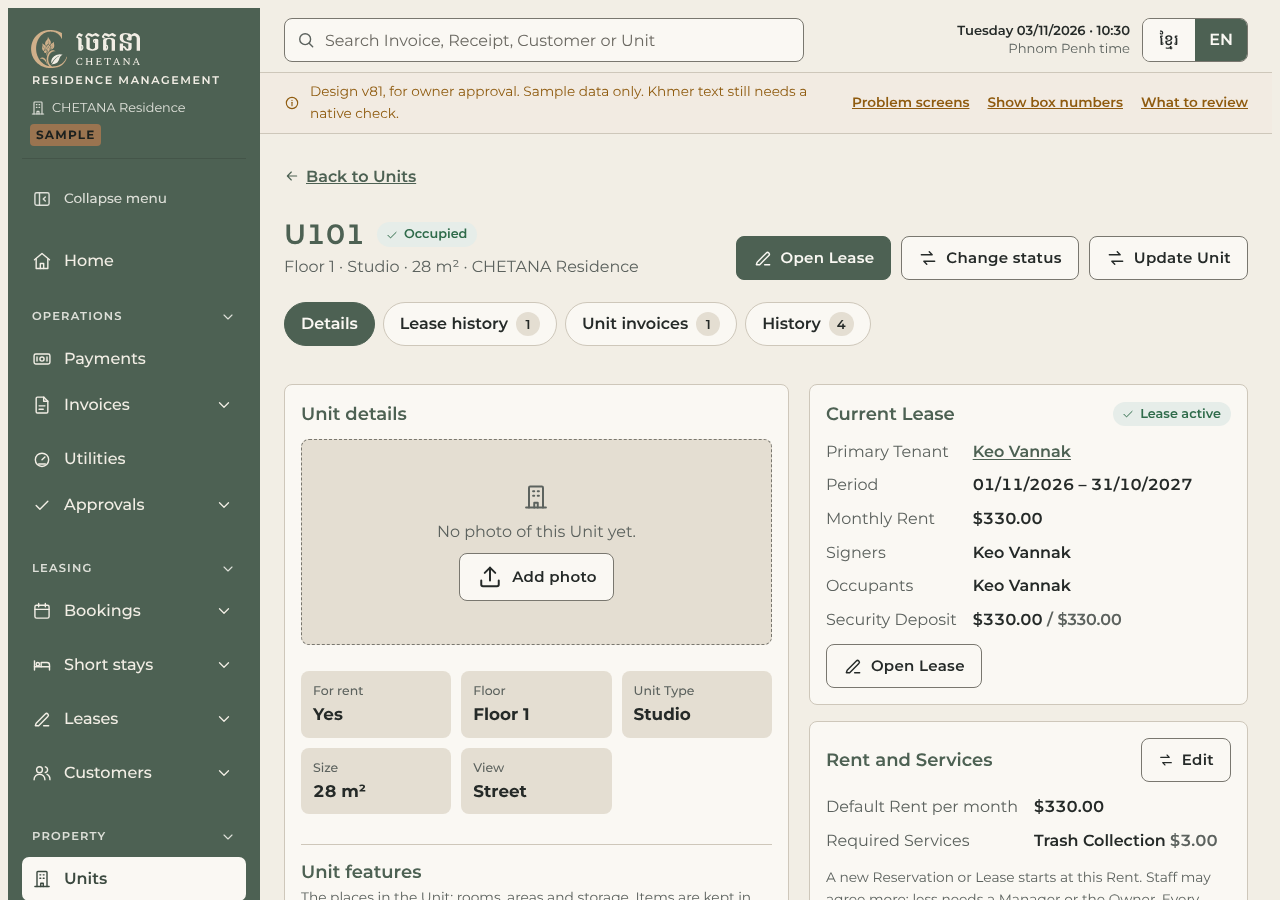
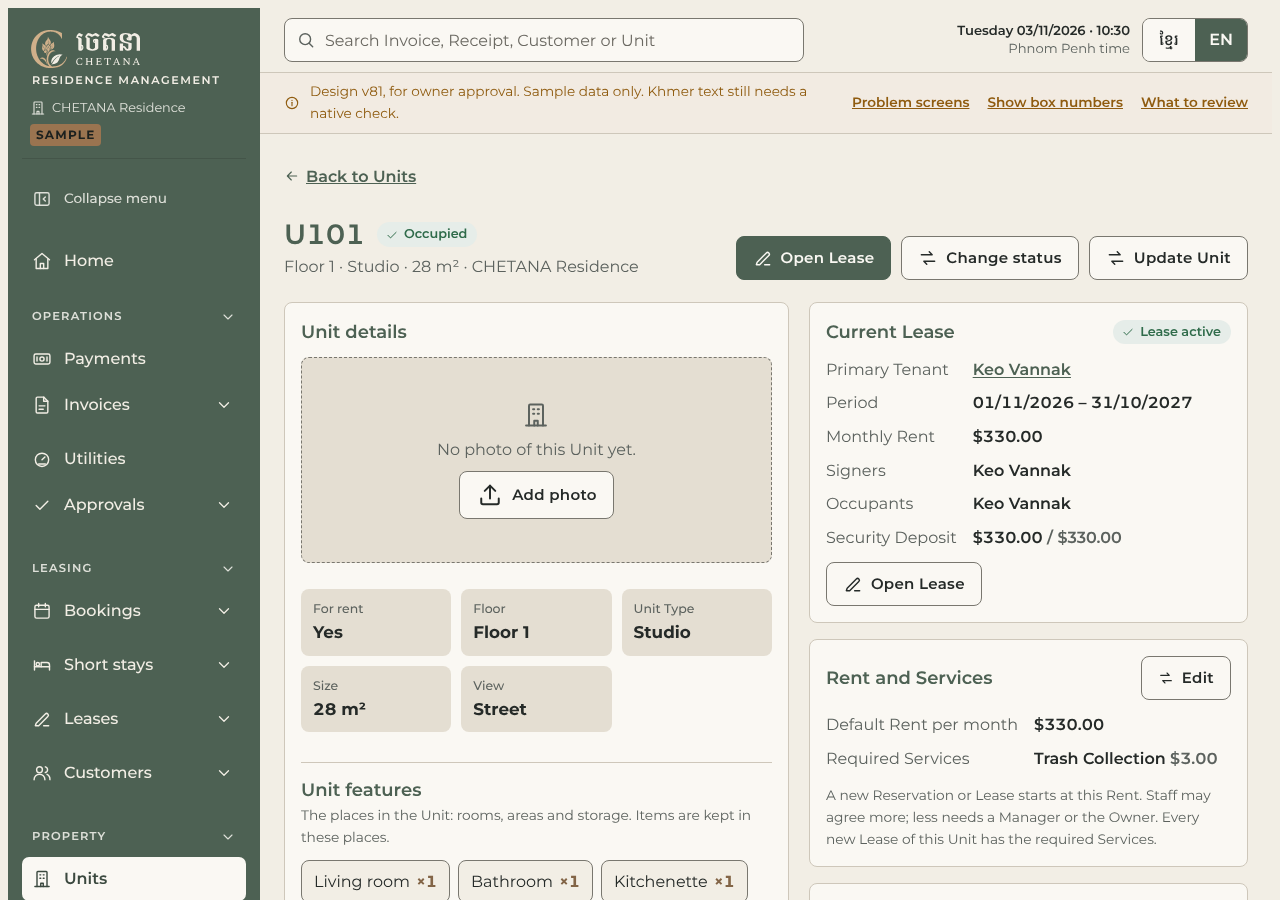
docs(ui-audit): design v81 owner changes (records on one page, short buttons, early check-out warning)
Claude-Session: https://claude.ai/code/session_01QVNZ4Jirj84EGHQT29acKF

diff --git a/docs/ui-audit/02_DESIGN_V81_CHANGES.md b/docs/ui-audit/02_DESIGN_V81_CHANGES.md
@@ -12,12 +12,16 @@ Date 07/11/2026. Branch `ui-v81`.
 ## What changed
 
 1. **Wording.** The A1 review (03_WORDING_REVIEW.md) applied to the design: 148 design texts changed (list below). Ledger names 1100/1110 Accounts receivable, 2210 Unapplied payments, 3900 Retained earnings. Khmer is not changed except the new words, which are marked `// new` in the source.
-2. **Sub-tab rule (B2).** A record or Settings page with more than one table shows a sub-tab row: "Details" (records) or "General" (Settings) first, holding the cards, then one sub-tab per table with a count badge. Number cards stay above. A page with one table and no cards has no sub-tab row. Pills on desktop, one scrolling row on a phone. The chosen sub-tab is kept in the address (`#unit?tab=t1`) and does not add a Back step. Keyboard: arrow keys, Home and End.
+2. **Sub-tab rule (B2).** Settings (and any list page with more than one table) shows a sub-tab row. Record pages (Lease, Customer, Unit, Employee, Reservation) stay on one page, as the owner asked on 07/11 07:55 (see 8). Settings sub-tabs: "Details" (records) or "General" (Settings) first, holding the cards, then one sub-tab per table with a count badge. Number cards stay above. A page with one table and no cards has no sub-tab row. Pills on desktop, one scrolling row on a phone. The chosen sub-tab is kept in the address (`#unit?tab=t1`) and does not add a Back step. Keyboard: arrow keys, Home and End.
 3. **Back rule (B3).** The Back link reads "Back to X" (the page you came from). It returns to that page with its tab, filters and scroll place. Opened directly, it goes to the parent list. The browser Back button does the same, and closes an open drawer first. Changing a section tab or sub-tab adds no history step.
 4. **Drawer forms (B2).** Add and Edit forms open as a right drawer (full-screen sheet at 640 px or less), with the Save row fixed at the bottom. Closing with changes asks first. Confirm dialogs without fields stay in the middle.
 5. **Audit log Export.** One "Export" button; the dialog asks Excel (.xlsx) or PDF.
 6. **Items the app already has**, now in the design: riel bank 1021 (Bank and cash sub-tab with "Riel in the bank" and the ABA riel statement match), the riel account per Payment Method, the riel amount for a Refund paid from 1021 in Needs check, and the Short stays Quotes tab.
 7. Footer and banner say "Design v81".
+8. **Owner changes after Part A (07/11 07:55).**
+   - Record pages stay on one page, no sub-tabs. The History card shows the latest 5 with a "History" button to a full History page. Customer: Latest Receipts shows 5 with "All Receipts"; Customer statement shows only the balance due with "Full statement". Unit and Lease work the same way.
+   - Buttons stay short: a role badge never sits inside a button. "Reduce or waive MANAGER" is now "Adjust charge" with "Manager only" beside it. This applies to every button with a role badge.
+   - Short stays: pressing Check out before the booked check-out day shows "Not the check-out date" with "Keep the stay" or "Check out early".
 
 ## Not changed in v81 (on purpose)
 
@@ -39,7 +43,7 @@ Phone (v81, 375): ![01-home after 375](screenshots/design-v81/01-home-after-375.
 
 ### 2. Unit record (U101)
 
-Sub-tab rule: Details first, then one sub-tab per table with a count badge. "Back to Units" instead of "Back". Record section "History" (owner decision 8).
+"Back to Units" instead of "Back". The record stays on one page; the History card shows the latest 5 with a History button (owner 07/11 07:55).
 
 | Before (v80, 1280) | After (v81, 1280) |
 |---|---|
@@ -116,6 +120,38 @@ Forms open as a right drawer (full-screen sheet on a phone). Closing with change
 | ![09-edit-form before 1280](screenshots/design-v81/09-edit-form-before-1280.png) | ![09-edit-form after 1280](screenshots/design-v81/09-edit-form-after-1280.png) |
 
 Phone (v81, 375): ![09-edit-form after 375](screenshots/design-v81/09-edit-form-after-375.png)
+
+### Customer record
+
+One page. Statement shows the balance due and "Full statement"; Latest Receipts shows 5 and "All Receipts"; History shows 5 and "History".
+
+| v81, 1280 | v81, 375 |
+|---|---|
+| ![10-customer-record 1280](screenshots/design-v81/10-customer-record-after-1280.png) | ![10-customer-record 375](screenshots/design-v81/10-customer-record-after-375.png) |
+
+### Lease record
+
+Signers, Occupants and History together on one page; History shows the latest 5 and a History button.
+
+| v81, 1280 | v81, 375 |
+|---|---|
+| ![11-lease-record 1280](screenshots/design-v81/11-lease-record-after-1280.png) | ![11-lease-record 375](screenshots/design-v81/11-lease-record-after-375.png) |
+
+### Late-payment charge button
+
+"Adjust charge" with "Manager only" beside the button.
+
+| v81, 1280 | v81, 375 |
+|---|---|
+| ![12-late-charge-button 1280](screenshots/design-v81/12-late-charge-button-after-1280.png) | ![12-late-charge-button 375](screenshots/design-v81/12-late-charge-button-after-375.png) |
+
+### Short stay early check-out
+
+Warning before checking out a paid stay before its check-out day.
+
+| v81, 1280 | v81, 375 |
+|---|---|
+| ![13-early-checkout-warning 1280](screenshots/design-v81/13-early-checkout-warning-after-1280.png) | ![13-early-checkout-warning 375](screenshots/design-v81/13-early-checkout-warning-after-375.png) |
 
 ## Wording changed in the design (v80 → v81)
 
